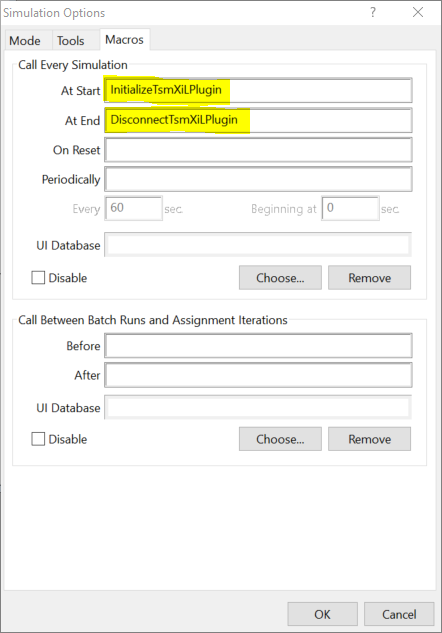
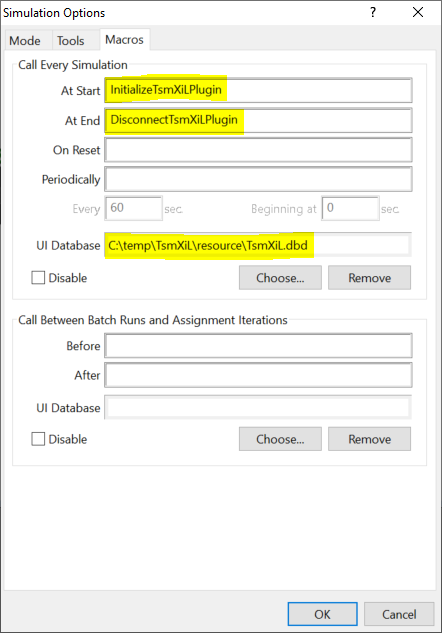
Update documenation

diff --git a/docs/Readme.md b/docs/Readme.md
@@ -4,18 +4,45 @@ This is a plugin to model Vehicle-in-Loop in TransModeler traffic simulation. It
 
 ## Load the plugin DLL in TransModeler
 
-The plugin dll is loaded in TransModeler using the TsmXiL.rsc resource file. To load in TransModeler,
+The plugin dll is loaded in TransModeler using the TsmXiL.dbd resource. To load in TransModeler,
 
- 1. Go to Window > Load Resource... menu item and choose the TsmXiL.rsc file\
- ![image info](./images/loadResource.png)
+- Go to Simulation > Options... menu item and in the Call Every Simulation section in the Macros tab specify -
+    1. Choose the TsmXiL.dbd file as UI Database by clicking on the "Choose" button
+    2. *InitializeTsmXiLPlugin* macro for "At Start"
+    3. *DisconnectTsmXiLPlugin* macro for "At End"
 
- 2. Go to Simulation > Options... menu item and in the Call Every Simulation section in the Macros tab specify -
-    1. *InitializeTsmXiLPlugin* macro for "At Start"
-    2. *DisconnectTsmXiLPlugin* macro for "At End"\
-   ![image info](./images/simOptions.PNG)
+- Click on the "OK" button to save the changes
+
+- Click the "Save" menu item from the main TransModeler menu to save the simulation project
+
+   ![image info](images/simOptions.PNG)
 
 ## Plugin functionality
 
 The Manager.cs class connects this plugin with the TransModeler API and handles simulation events. The Start() method in Manager.cs is the entry point into the plugin code.
 
-The Controller.cs class has an Update() method which is called during each simulation timestep which is set to a default value of 100 ms (or 1/10th of a second). The Update() method internally calls SendAccelCommand() method which sends the acceleration command to the controller and receives acceleration and speed in response.
+The Controller.cs class has an Update() method which is called during each simulation timestep which can be set to a custom value as desired. The Update() method internally calls UpdateRealVehicle() method which sends speed and acceleration commands to the real vehicle controller and receives acceleration and speed in response. It then calls the UpdateSimulationVehicle() method which updates the speed and acceleration of the simulated vehicle.
+
+The Controller.cs class also has an AddVehicle() method which is called to add a new vehicle to the simulation. This method creates a new instance of the Vehicle class and adds it to the list of vehicles with the attributes specified in the configuration file (config.txt). 
+
+## Configuration
+
+### Vehicle attributes
+
+The config.txt file currently allows specifying the following attributes for the vehicle to be added -
+
+1. Origin (VehOriginLaneId)
+2. Destination (VehDestinationLaneId)
+3. Initial speed (VehInitialSpeed)
+4. Default acceleration (DefaultAcceleration)
+
+### Controller attributes
+
+The configuration file also provides the following configuration options -
+
+1. Controller TCP IP Address (TcpAddress)
+2. Controller TCP Port (TcpPort)
+
+### Simulation attributes
+
+1. Simulation timestep (UpdateInterval)
